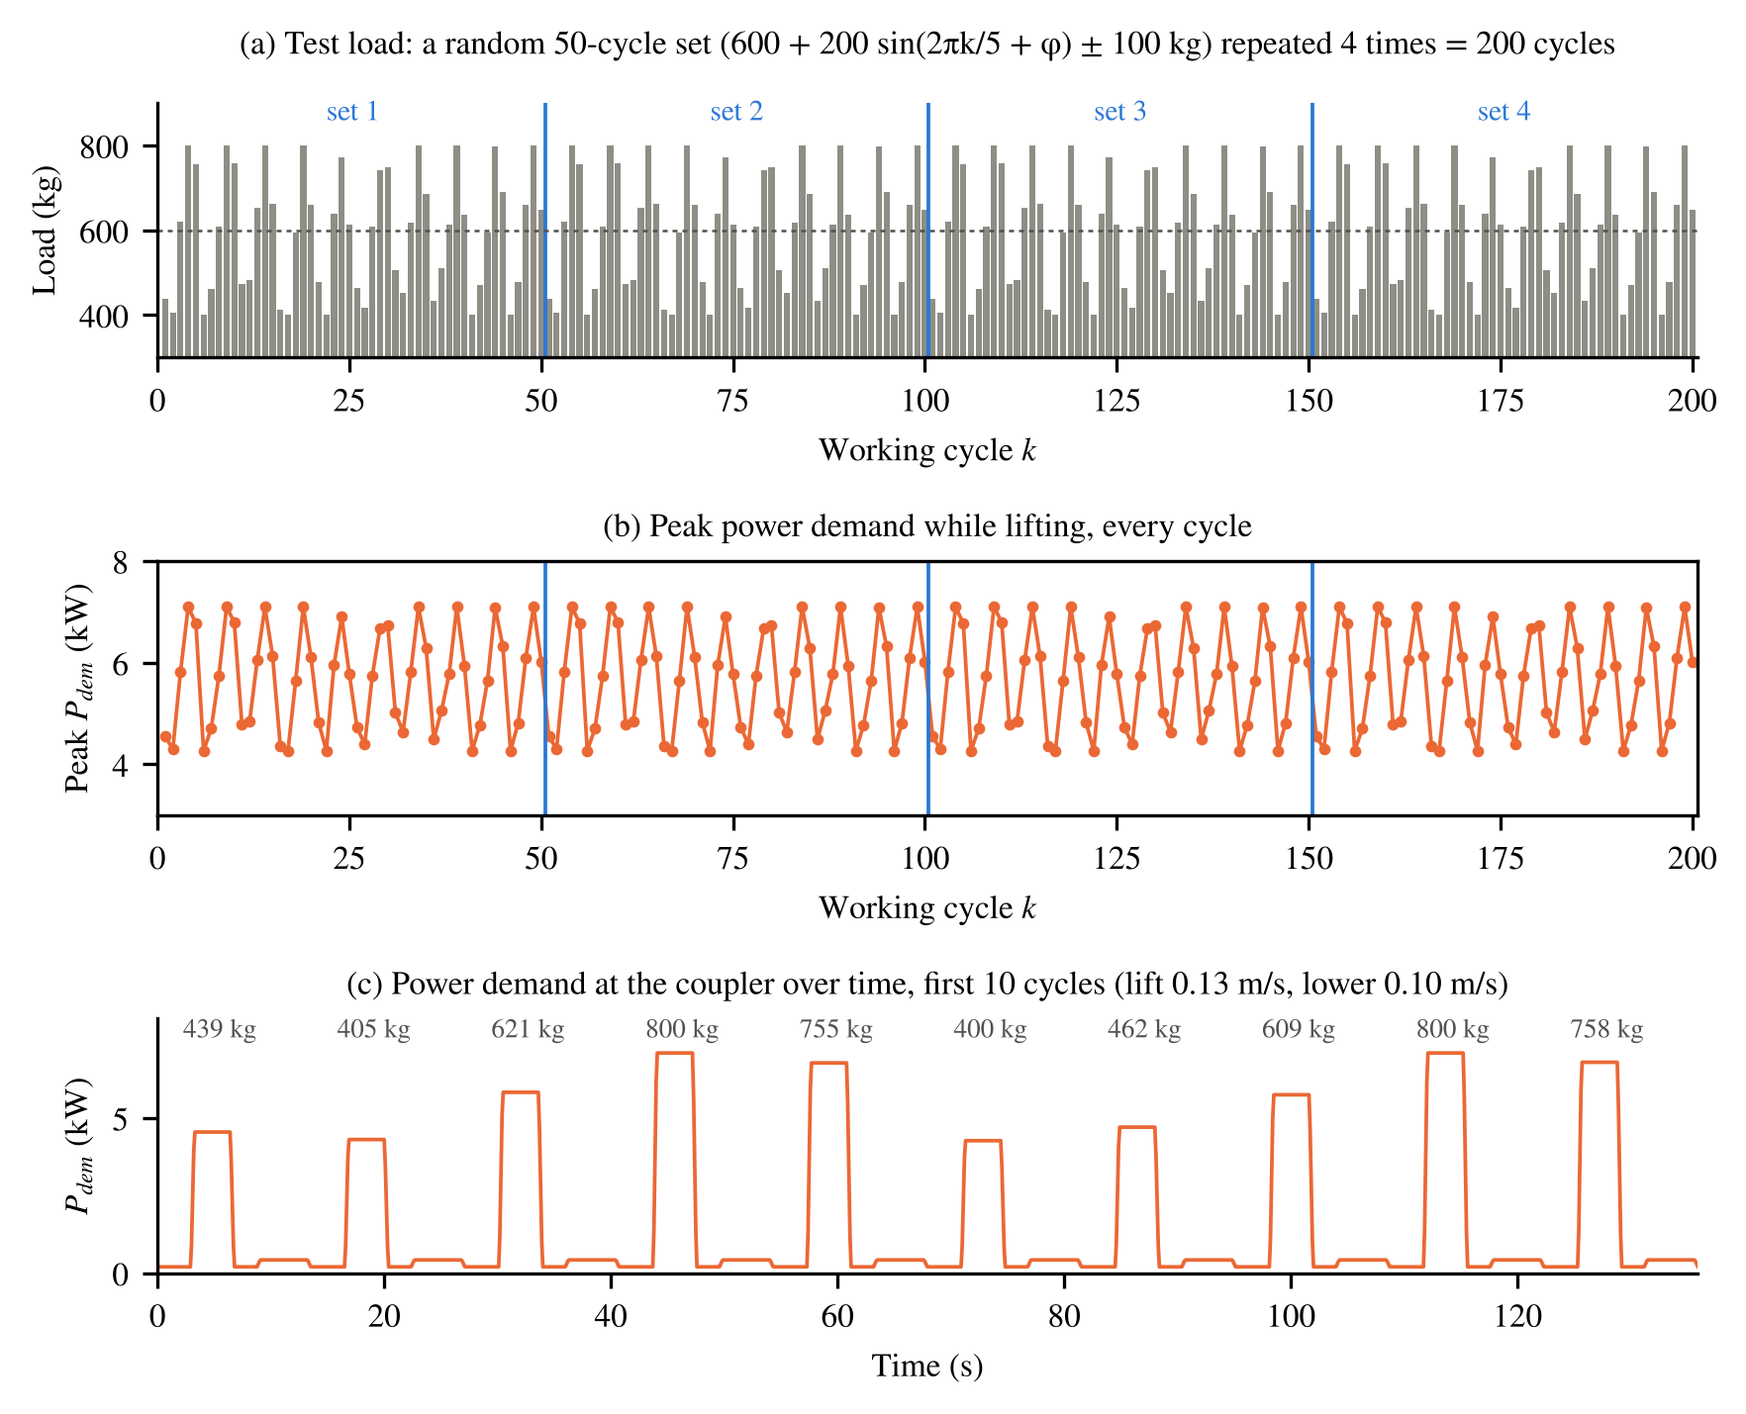
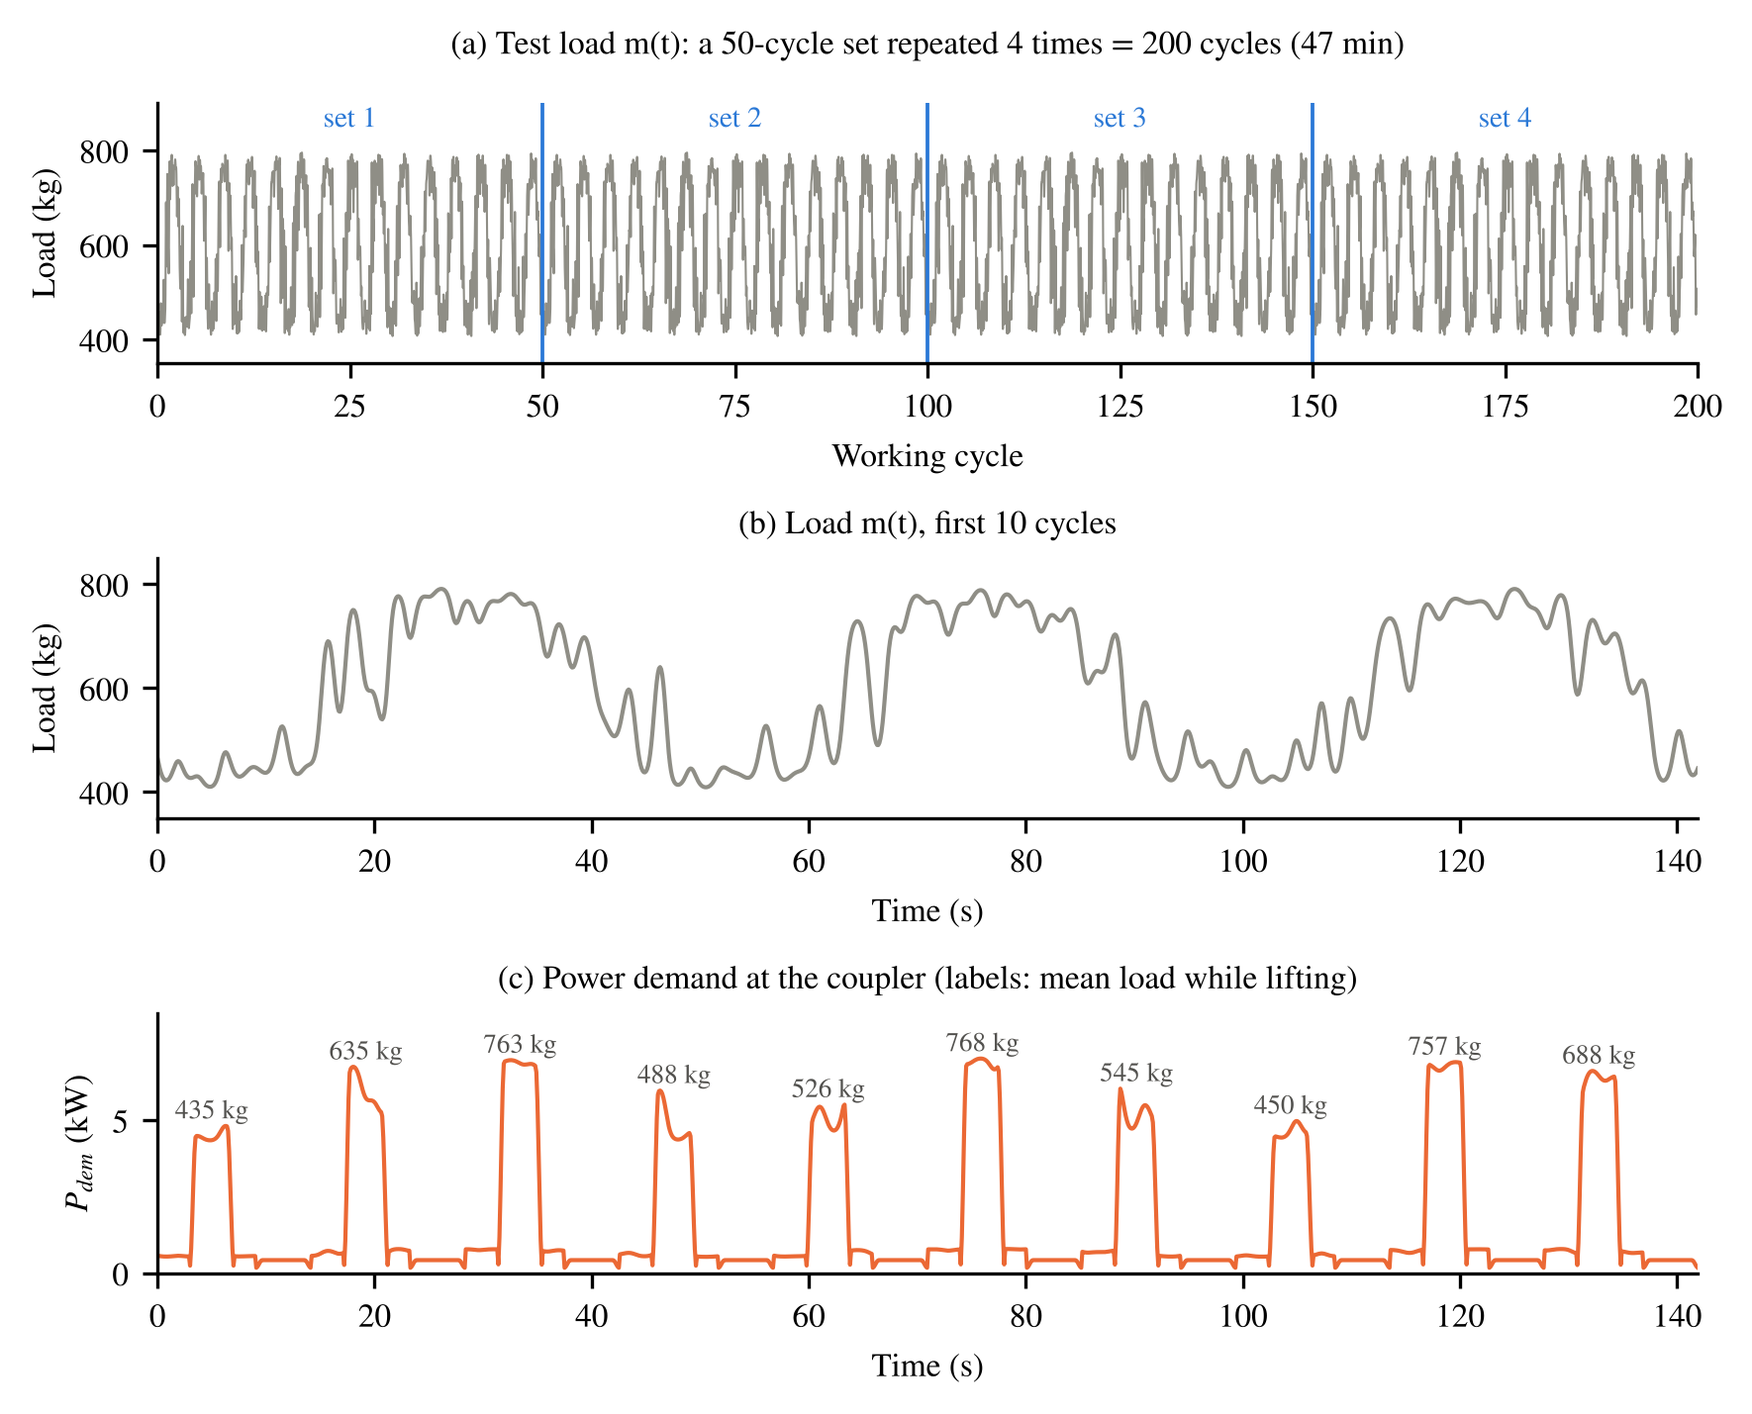
Continuous load: m(t) varies within and between cycles; load-dependent holding demand
Load = periodic trend (3-5 cycles) + smooth random variation (periods 2-15 s), softly
saturated into 400-800 kg; a periodic 50-cycle set repeated 4 times (200 cycles).
Holding phases now carry the load (leakage at holding pressure), speed ramps are
raised-cosine (0.6 s). Retuning/training/evaluation pending approval of the profile.

Claude-Session: https://claude.ai/code/session_018sSAYkUHjZ6fBfFmKnHFoW

diff --git a/excavator/scenario.py b/excavator/scenario.py
@@ -1,10 +1,12 @@
-"""Working-cycle generator: boom lift / hold / lower with a patterned random load.
+"""Working-cycle generator: boom lift / hold / lower under a continuously varying load.
 
 One cycle = hold at bottom (digging) -> lift (0.13 m/s) -> hold at top (dumping)
 -> lower (0.1 m/s, no regeneration). Speeds are the same in every cycle; only the
 load mass changes. The load is periodic with strong cycle-to-cycle variation:
-m_k = 600 + 200 sin(2 pi k / P + phi) + U(-100, 100) kg, P = 3-5 cycles, clipped to [400, 800] kg.
-The test scenario repeats one such 50-cycle set 4 times (200 cycles).
+The load m(t) changes continuously in time, also within a cycle (periodic trend of 3-5 cycles
+plus smooth random variation with periods of 2-15 s, softly saturated into 400-800 kg). The
+load stays on the boom during the whole cycle. The test scenario repeats one 50-cycle set
+4 times (200 cycles).
 """
 from dataclasses import dataclass
 
@@ -16,11 +18,11 @@ PHASE_HOLD_BOTTOM, PHASE_LIFT, PHASE_HOLD_TOP, PHASE_LOWER = 0, 1, 2, 3
 
 
 def _trapezoid(n_steps, v):
-    """Cylinder speed and acceleration (step midpoints) for a trapezoidal profile."""
+    """Cylinder speed and acceleration (step midpoints): constant speed with raised-cosine ramps."""
     t = (np.arange(n_steps) + 0.5) * p.DT
-    t_end = n_steps * p.DT
-    vel = v * np.clip(np.minimum(t, t_end - t) / p.T_RAMP, 0.0, 1.0)
-    acc = np.where(t < p.T_RAMP, v / p.T_RAMP, np.where(t > t_end - p.T_RAMP, -v / p.T_RAMP, 0.0))
+    tau = np.clip(np.minimum(t, n_steps * p.DT - t) / p.T_RAMP, 0.0, 1.0)
+    vel = v * 0.5 * (1.0 - np.cos(np.pi * tau))
+    acc = v * np.pi / (2 * p.T_RAMP) * np.sin(np.pi * tau) * np.where(t < n_steps * p.DT / 2, 1.0, -1.0)
     return vel, acc
 
 
@@ -32,24 +34,30 @@ N_CYCLE = N_HOLD_BOTTOM + N_LIFT + N_HOLD_TOP + N_LOWER
 
 
 def cycle_demand(load):
-    """Power demand at the power-coupler output (W) over one cycle, and the phase index."""
-    to_coupler = 1.0 / (p.ETA_CVT * p.ETA_CPL)
+    """Power demand at the power-coupler output (W) over one cycle, and the phase index.
 
-    # holds: pump at standby pressure / leakage flow
-    p_hold = (p.P_STANDBY * p.Q_STANDBY / p.ETA_PUMP + p.P_PUMP_NOLOAD) * to_coupler
+    `load` is the load mass (kg), either one value for the cycle or one value per time step.
+    """
+    load = np.broadcast_to(np.asarray(load, dtype=float), (N_CYCLE,))
+    to_coupler = 1.0 / (p.ETA_CVT * p.ETA_CPL)
+    i1, i2, i3 = N_HOLD_BOTTOM, N_HOLD_BOTTOM + N_LIFT, N_HOLD_BOTTOM + N_LIFT + N_HOLD_TOP
+    demand = np.empty(N_CYCLE)
+
+    # holds: load kept on the boom; the pump makes up the leakage at the holding pressure
+    hold = np.r_[0:i1, i2:i3]
+    p_holding = (p.M_STRUCT + p.R_LOAD * load[hold]) * p.G / p.A_CAP
+    demand[hold] = (p_holding * p.Q_LEAK_HOLD / p.ETA_PUMP + p.P_PUMP_NOLOAD) * to_coupler
 
     # lift: cap side fed by the pump, rod side to tank
     v, a = _trapezoid(N_LIFT, p.V_UP)
-    force = (p.M_STRUCT + p.R_LOAD * load) * (p.G + a) + p.F_FRIC
+    force = (p.M_STRUCT + p.R_LOAD * load[i1:i2]) * (p.G + a) + p.F_FRIC
     p_cap = (force + p.P_TANK * p.A_ROD) / p.A_CAP + p.DP_VALVE
-    p_lift = (p_cap * p.A_CAP * v / p.ETA_PUMP + p.P_PUMP_NOLOAD) * to_coupler
+    demand[i1:i2] = (p_cap * p.A_CAP * v / p.ETA_PUMP + p.P_PUMP_NOLOAD) * to_coupler
 
-    # lower: gravity-driven, meter-out throttled; pump only fills the rod side
+    # lower: gravity-driven, meter-out throttled (no regeneration); pump only fills the rod side
     v, _ = _trapezoid(N_LOWER, p.V_DOWN)
-    p_lower = (p.P_ROD_LOWER * p.A_ROD * v / p.ETA_PUMP + p.P_PUMP_NOLOAD) * to_coupler
+    demand[i3:] = (p.P_ROD_LOWER * p.A_ROD * v / p.ETA_PUMP + p.P_PUMP_NOLOAD) * to_coupler
 
-    demand = np.concatenate([
-        np.full(N_HOLD_BOTTOM, p_hold), p_lift, np.full(N_HOLD_TOP, p_hold), p_lower])
     phase = np.concatenate([
         np.full(N_HOLD_BOTTOM, PHASE_HOLD_BOTTOM), np.full(N_LIFT, PHASE_LIFT),
         np.full(N_HOLD_TOP, PHASE_HOLD_TOP), np.full(N_LOWER, PHASE_LOWER)])
@@ -58,11 +66,12 @@ def cycle_demand(load):
 
 @dataclass
 class Scenario:
-    loads: np.ndarray       # kg, one per cycle
+    loads: np.ndarray       # kg, mean load of each cycle
     p_dem: np.ndarray       # W, per time step
     cycle: np.ndarray       # cycle index per time step
     phase: np.ndarray       # phase index per time step
     p_dem_avg: np.ndarray   # W, moving average of P_dem over the previous cycle length
+    load_t: np.ndarray = None   # kg, load per time step
 
     @property
     def n_steps(self):
@@ -81,13 +90,16 @@ def moving_average(x, window):
     return (c[idx] - c[lo]) / (idx - lo)
 
 
-def make_scenario(loads):
+def make_scenario(loads, per_step=False):
+    """Scenario from one load per cycle, or (per_step=True) one load per time step."""
     loads = np.asarray(loads, dtype=float)
-    parts = [cycle_demand(m) for m in loads]
+    load_t = loads if per_step else np.repeat(loads, N_CYCLE)
+    per_cycle = load_t.reshape(-1, N_CYCLE)
+    parts = [cycle_demand(m) for m in per_cycle]
     p_dem = np.concatenate([d for d, _ in parts])
     phase = np.concatenate([ph for _, ph in parts])
-    cycle = np.repeat(np.arange(len(loads)), N_CYCLE)
-    return Scenario(loads, p_dem, cycle, phase, moving_average(p_dem, N_CYCLE))
+    cycle = np.repeat(np.arange(len(per_cycle)), N_CYCLE)
+    return Scenario(per_cycle.mean(axis=1), p_dem, cycle, phase, moving_average(p_dem, N_CYCLE), load_t)
 
 
 def random_loads(n_cycles, rng):
@@ -124,11 +136,31 @@ def repeated_set_loads(n_cycles, rng):
     return np.resize(periodic_loads(p.LOAD_SET_CYCLES, rng), n_cycles)
 
 
-patterned_loads = repeated_set_loads  # load pattern used for training, validation and test
+def continuous_loads(n_cycles, rng):
+    """Load per time step: a periodic 50-cycle set (trend + smooth noise, soft-saturated), repeated."""
+    n_set = p.LOAD_SET_CYCLES * N_CYCLE
+    t = np.arange(n_set) * p.DT
+    T = n_set * p.DT
+    n_per = int(rng.integers(p.LOAD_SET_CYCLES // p.LOAD_PERIOD_MAX, p.LOAD_SET_CYCLES // p.LOAD_PERIOD_MIN + 1))
+    trend = p.LOAD_TREND_AMPL * np.sin(2 * np.pi * n_per * t / T + rng.uniform(0, 2 * np.pi))
+    j = np.arange(int(np.ceil(T / p.LOAD_NOISE_TMAX)), int(T / p.LOAD_NOISE_TMIN) + 1)   # harmonics of T
+    amp, ph = rng.standard_normal(len(j)), rng.uniform(0, 2 * np.pi, len(j))
+    noise = np.zeros(n_set)
+    for a_j, j_j, ph_j in zip(amp, j, ph):
+        noise += a_j * np.sin(2 * np.pi * j_j * t / T + ph_j)
+    noise *= p.LOAD_NOISE_STD / noise.std()
+    half = (p.LOAD_MAX - p.LOAD_MIN) / 2
+    m = p.LOAD_MEAN + half * np.tanh((trend + noise) / half)
+    return np.resize(m, n_cycles * N_CYCLE)
+
+
+def pattern_scenario(n_cycles, rng):
+    """Scenario with the current load pattern (used for training, validation and test)."""
+    return make_scenario(continuous_loads(n_cycles, rng), per_step=True)
 
 
 def test_scenario():
-    return make_scenario(patterned_loads(p.N_TEST_CYCLES, np.random.default_rng(p.TEST_SEED)))
+    return pattern_scenario(p.N_TEST_CYCLES, np.random.default_rng(p.TEST_SEED))
 
 
 def constant_scenario(load, n_cycles=p.N_TUNE_CYCLES):

diff --git a/scripts/plot_load.py b/scripts/plot_load.py
@@ -1,45 +1,66 @@
-"""Plot the test load sequence and the power demand of the first cycles (load_profile_test.png)."""
-import sys; from pathlib import Path; sys.path.insert(0, str(Path(__file__).resolve().parents[1]))
-import numpy as np, matplotlib
+"""Preview of the test load m(t) and the power demand at the coupler (load_profile_test.png)."""
+import sys
+from pathlib import Path
+
+import numpy as np
+import matplotlib
+
 matplotlib.use("Agg")
-import matplotlib.pyplot as plt
-from excavator import params as p, scenario as S
+import matplotlib.pyplot as plt                       # noqa: E402
+
+ROOT = Path(__file__).resolve().parents[1]
+sys.path.insert(0, str(ROOT))
+from excavator import params as p, scenario as S     # noqa: E402
+
 plt.rcParams.update({"font.family": "STIXGeneral", "mathtext.fontset": "stix", "font.size": 8,
                      "svg.fonttype": "none", "savefig.dpi": 300})
 CM = 1 / 2.54
-rng = np.random.default_rng(p.TEST_SEED)
-period = int(rng.integers(p.LOAD_PERIOD_MIN, p.LOAD_PERIOD_MAX + 1)); phase = rng.uniform(0, 2 * np.pi)
-sc = S.test_scenario(); k = np.arange(1, len(sc.loads) + 1); n = len(k)
-trend = p.LOAD_MEAN + p.LOAD_AMPL * np.sin(2 * np.pi * (k - 1) / period + phase)
-fig, (a0, a2, a1) = plt.subplots(3, 1, figsize=(17 * CM, 13 * CM), gridspec_kw=dict(hspace=0.8))
-a0.bar(k, sc.loads, width=0.8, color="#8f8e86")
-for r in range(1, p.LOAD_SET_REPEATS):
-    a0.axvline(r * p.LOAD_SET_CYCLES + 0.5, color="#2a78d6", lw=0.9)
-for r in range(p.LOAD_SET_REPEATS):
-    a0.text((r + 0.5) * p.LOAD_SET_CYCLES + 0.5, 860, f"set {r + 1}", ha="center", fontsize=7, color="#2a78d6")
-a0.axhline(600, color="#52514e", lw=0.6, ls=(0, (2, 2)))
-a0.set_ylim(300, 900); a0.set_xlim(0.3, k[-1] + 0.7); a0.set_xticks(np.arange(0, n + 1, 25))
-a0.set_xlabel("Working cycle $k$"); a0.set_ylabel("Load (kg)")
-a0.set_title(f"(a) Test load: a random {p.LOAD_SET_CYCLES}-cycle set (600 + {p.LOAD_AMPL:.0f} sin(2πk/{period} + φ) ± {p.LOAD_NOISE:.0f} kg) "
-              f"repeated {p.LOAD_SET_REPEATS} times = {n} cycles", fontsize=8, pad=12)
-lift = sc.phase == S.PHASE_LIFT
-peak = np.array([sc.p_dem[(sc.cycle == c) & lift].max() for c in range(n)]) / 1e3
-a2.plot(k, peak, color="#eb6834", lw=0.9, marker="o", ms=1.8)
-for r in range(1, p.LOAD_SET_REPEATS):
-    a2.axvline(r * p.LOAD_SET_CYCLES + 0.5, color="#2a78d6", lw=0.9)
-a2.set_xlim(0.3, k[-1] + 0.7); a2.set_xticks(np.arange(0, n + 1, 25)); a2.set_ylim(3, 8)
-a2.set_xlabel("Working cycle $k$"); a2.set_ylabel("Peak $P_{dem}$ (kW)")
-a2.set_title("(b) Peak power demand while lifting, every cycle", fontsize=8)
-m = sc.cycle < 10
-a1.plot(sc.time[m], sc.p_dem[m] / 1e3, color="#eb6834", lw=0.9)
-for c in range(10):
-    t0 = c * S.N_CYCLE * p.DT
-    a1.text(t0 + 5.5, 7.6, f"{sc.loads[c]:.0f} kg", ha="center", fontsize=6.5, color="#52514e")
-a1.set_ylim(0, 8.2); a1.set_xlim(0, sc.time[m][-1])
-a1.set_xlabel("Time (s)"); a1.set_ylabel("$P_{dem}$ (kW)")
-a1.set_title("(c) Power demand at the coupler over time, first 10 cycles (lift 0.13 m/s, lower 0.10 m/s)", fontsize=8)
-for ax in (a0, a1): ax.spines[["top", "right"]].set_visible(False)
-fig.savefig(str(Path(__file__).resolve().parents[1] / "results" / "figures" / "load_profile_test.png"), bbox_inches="tight")
-d = np.abs(np.diff(sc.loads))
-print(f"period {period}, min {sc.loads.min():.0f}, max {sc.loads.max():.0f}, mean {sc.loads.mean():.0f} kg, "
-      f"mean |change| {d.mean():.0f} kg, max change {d.max():.0f} kg")
+INK2 = "#52514e"
+
+
+def main(n_zoom=10):
+    sc = S.test_scenario()
+    t_cyc = S.N_CYCLE * p.DT
+    k = sc.time / t_cyc                                   # time in working cycles
+    fig, (a0, a1, a2) = plt.subplots(3, 1, figsize=(17 * CM, 13 * CM), gridspec_kw=dict(hspace=0.75))
+
+    a0.plot(k, sc.load_t, color="#8f8e86", lw=0.5)
+    for r in range(1, p.LOAD_SET_REPEATS):
+        a0.axvline(r * p.LOAD_SET_CYCLES, color="#2a78d6", lw=0.9)
+    for r in range(p.LOAD_SET_REPEATS):
+        a0.text((r + 0.5) * p.LOAD_SET_CYCLES, 850, f"set {r + 1}", ha="center", fontsize=7, color="#2a78d6")
+    a0.set_xlim(0, k[-1]); a0.set_ylim(350, 900); a0.set_xticks(np.arange(0, len(sc.loads) + 1, 25))
+    a0.set_xlabel("Working cycle"); a0.set_ylabel("Load (kg)")
+    a0.set_title(f"(a) Test load m(t): a {p.LOAD_SET_CYCLES}-cycle set repeated {p.LOAD_SET_REPEATS} times "
+                 f"= {len(sc.loads)} cycles ({sc.n_steps * p.DT / 60:.0f} min)", fontsize=8, pad=12)
+
+    m = sc.cycle < n_zoom
+    a1.plot(sc.time[m], sc.load_t[m], color="#8f8e86", lw=1.0)
+    a1.set_xlim(0, sc.time[m][-1]); a1.set_ylim(350, 850)
+    a1.set_xlabel("Time (s)"); a1.set_ylabel("Load (kg)")
+    a1.set_title(f"(b) Load m(t), first {n_zoom} cycles", fontsize=8)
+
+    a2.plot(sc.time[m], sc.p_dem[m] / 1e3, color="#eb6834", lw=1.0)
+    lift = sc.phase == S.PHASE_LIFT
+    for c in range(n_zoom):
+        sel = (sc.cycle == c) & lift
+        a2.text(sc.time[sel].mean(), sc.p_dem[sel].max() / 1e3 + 0.25, f"{sc.load_t[sel].mean():.0f} kg",
+                ha="center", fontsize=6.5, color=INK2)
+    a2.set_xlim(0, sc.time[m][-1]); a2.set_ylim(0, 8.5)
+    a2.set_xlabel("Time (s)"); a2.set_ylabel("$P_{dem}$ (kW)")
+    a2.set_title("(c) Power demand at the coupler (labels: mean load while lifting)", fontsize=8)
+    for ax in (a0, a1, a2):
+        ax.spines[["top", "right"]].set_visible(False)
+    fig.savefig(ROOT / "results" / "figures" / "load_profile_test.png", bbox_inches="tight")
+
+    lifts = np.array([sc.p_dem[(sc.cycle == c) & lift] for c in range(len(sc.loads))])
+    swing = lifts.max(axis=1) - lifts[:, lifts.shape[1] // 4: 3 * lifts.shape[1] // 4].min(axis=1)
+    dm = np.abs(np.diff(sc.load_t)) / p.DT
+    print(f"load {sc.load_t.min():.0f}-{sc.load_t.max():.0f} kg, mean {sc.load_t.mean():.0f} kg, "
+          f"mean |dm/dt| {dm.mean():.0f} kg/s; P_dem {sc.p_dem.min() / 1e3:.2f}-{sc.p_dem.max() / 1e3:.2f} kW; "
+          f"lift peaks {lifts.max(axis=1).min() / 1e3:.2f}-{lifts.max(axis=1).max() / 1e3:.2f} kW; "
+          f"mean variation inside one lift {swing.mean() / 1e3:.2f} kW")
+
+
+if __name__ == "__main__":
+    main()

diff --git a/excavator/params.py b/excavator/params.py
@@ -17,7 +17,7 @@ AGENT_DT = 1.0                # s, DDPG decision interval (ASSUMED, as Li et al.
 V_UP = 0.13                   # m/s, lifting speed (GIVEN)
 V_DOWN = 0.10                 # m/s, lowering speed (GIVEN)
 STROKE = 0.45                 # m, boom cylinder working stroke per cycle (ASSUMED)
-T_RAMP = 0.3                  # s, acceleration / deceleration ramp (ASSUMED)
+T_RAMP = 0.6                  # s, smooth (raised-cosine) acceleration / deceleration ramp (ASSUMED)
 T_HOLD_TOP = 2.0              # s, hold at top (dumping) (ASSUMED)
 T_HOLD_BOTTOM = 3.0           # s, hold at bottom (digging / loading) (ASSUMED)
 LOAD_MIN, LOAD_MAX = 400.0, 800.0   # kg, load mass per cycle (GIVEN)
@@ -39,6 +39,12 @@ LOAD_NOISE = 100.0            # kg, random variation added to every cycle (user:
 LOAD_PERIOD_MIN, LOAD_PERIOD_MAX = 3, 5   # cycles per load period, drawn per scenario (user: fast variation)
 LOAD_SET_CYCLES = 50          # a random, strongly varying set of cycles ... (user decision)
 LOAD_SET_REPEATS = 4          # ... repeated 4 times in the test scenario (user decision)
+# continuous load (current study, user decision): the load changes continuously in time, also
+# within a cycle: m(t) = 600 + 200 tanh{[A sin(2 pi t / T_p + phi) + n(t)] / 200}, where n(t) is
+# smooth random noise (periods 2-15 s) and the set of 50 cycles is periodic so it repeats seamlessly
+LOAD_TREND_AMPL = 250.0       # kg, amplitude of the periodic trend before saturation (ASSUMED)
+LOAD_NOISE_STD = 70.0         # kg, std of the smooth random component (ASSUMED)
+LOAD_NOISE_TMIN, LOAD_NOISE_TMAX = 2.0, 15.0   # s, periods contained in the random component (ASSUMED)
 
 # ---------------------------------------------------------------- boom cylinder / load
 BORE = 0.050                  # m (GIVEN)
@@ -52,7 +58,8 @@ P_TANK = 0.3e6                # Pa, return-line back pressure (ASSUMED)
 DP_VALVE = 1.0e6              # Pa, control-valve pressure drop when lifting (ASSUMED)
 P_ROD_LOWER = 1.5e6           # Pa, rod-side supply pressure when lowering (no regeneration) (ASSUMED)
 P_STANDBY = 1.5e6             # Pa, standby pressure when holding (ASSUMED)
-Q_STANDBY = 1.0 / 60000       # m^3/s, standby / leakage flow when holding (ASSUMED)
+Q_STANDBY = 1.0 / 60000       # m^3/s, standby / leakage flow when holding (ASSUMED, first studies)
+Q_LEAK_HOLD = 1.5 / 60000     # m^3/s, leakage made up by the pump at holding pressure (ASSUMED)
 
 # ---------------------------------------------------------------- pump, CVT, power coupler
 PUMP_DISP = 30e-6             # m^3/rev, variable-displacement pump (GIVEN)

diff --git a/scripts/train_rl.py b/scripts/train_rl.py
@@ -1,4 +1,4 @@
-"""Train the DDPG agent of RL-ECMS on patterned loads (same load for 8-12 cycles, levels in [400, 800] kg).
+"""Train the DDPG agent of RL-ECMS on continuously varying loads in [400, 800] kg.
 
 State  x_t = [P_dem, P_dem_avg, SoC]                                  (Eq. 5)
 Action a_t = SoC_ref(t)
@@ -46,7 +46,7 @@ def validation_set(seeds=VAL_SEEDS):
     VAL_CACHE.mkdir(exist_ok=True)
     out = []
     for seed in seeds:
-        sc = S.make_scenario(S.patterned_loads(p.N_TEST_CYCLES, np.random.default_rng(seed)))
+        sc = S.pattern_scenario(p.N_TEST_CYCLES, np.random.default_rng(seed))
         f = VAL_CACHE / f"{seed}_{p.N_TEST_CYCLES}_{sc.loads.sum():.3f}.json"
         if not f.exists():
             s_bar = metrics.soc_value_factor(sc)
@@ -93,7 +93,7 @@ def main():
     rows, steps, t0 = [], 0, time.time()
     log_file = actor_file.with_name(actor_file.stem + "_log.csv")
     for ep in range(args.episodes):
-        sc = S.make_scenario(S.patterned_loads(CYCLES_PER_EPISODE, rng))
+        sc = S.pattern_scenario(CYCLES_PER_EPISODE, rng)
         env = ExcavatorEnv(sc, core)
         base = np.zeros(sc.n_steps) if args.no_baseline else \
             candidates(sc.p_dem)["mdot"][:, 1] * p.DT * p.Q_LHV       # engine-only fuel energy

diff --git a/README.md b/README.md
@@ -48,12 +48,13 @@ validation scenarios). `results/variants/` keeps the nine DDPG training configur
 were compared on the validation scenarios. `results/archive_iid12/` keeps the first study
 (12 cycles, independent random load per cycle).
 
-> **In progress:** the load generator is now periodic with strong cycle-to-cycle variation
-> (`600 + 200 sin(2 pi k / P + phi) + U(-100, 100)` kg, P = 3-5 cycles, one 50-cycle set repeated 4 times; see
-> `results/figures/load_profile_test.png`, `scripts/plot_load.py`). DDPG variants in
-> `results/variants/` hold DDPG variants trained for the 50-cycle set repeated 4 times (200 cycles);
-> the test evaluation is pending. The results below are from
-> the block-load study (same load for 8-12 cycles, `results/archive_block80/`).
+> **In progress:** the load now varies continuously in time, also within a cycle
+> (periodic trend of 3-5 cycles + smooth random variation with periods of 2-15 s, softly
+> saturated into 400-800 kg; one periodic 50-cycle set repeated 4 times = 200 cycles). The load
+> stays on the boom during holds (the pump makes up leakage at holding pressure) and the speed
+> ramps are smooth (raised cosine, 0.6 s). Preview: `results/figures/load_profile_test.png`
+> (`scripts/plot_load.py`). Retuning, training and the test evaluation wait for approval of this
+> profile. The results below are from the block-load study (`results/archive_block80/`).
 
 ## Results (test scenario, 80 cycles, block load)
 
